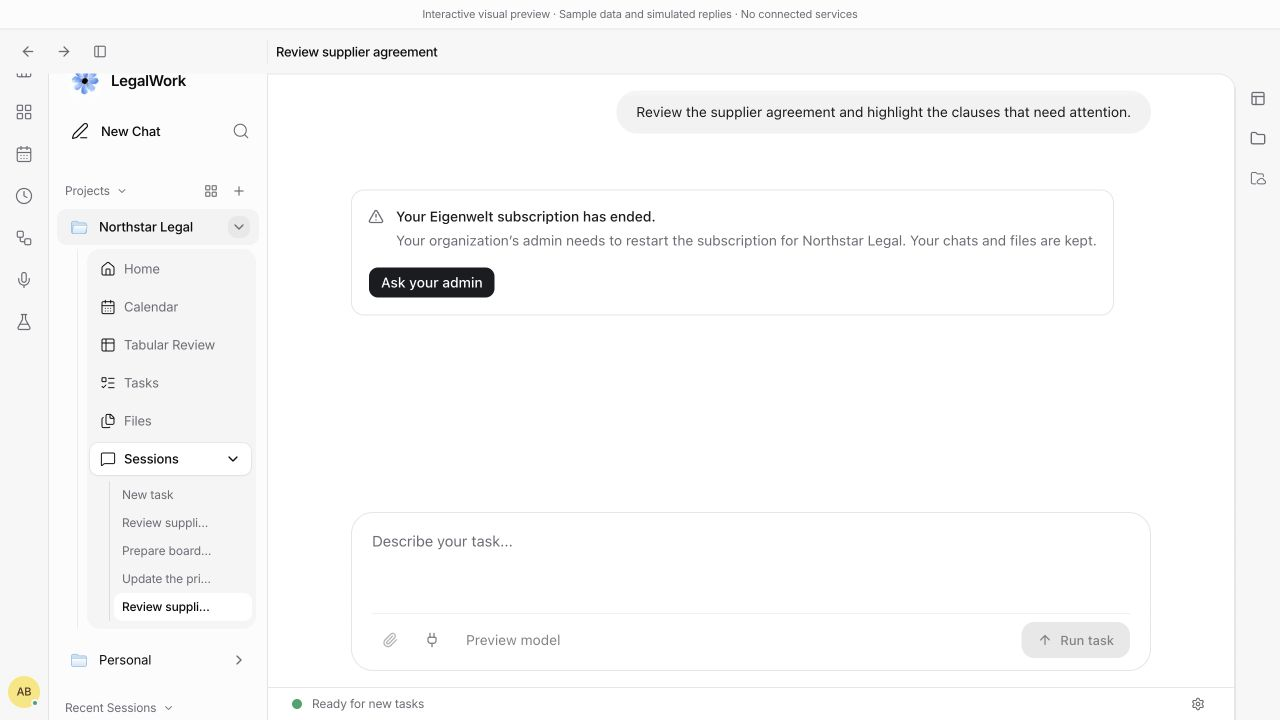
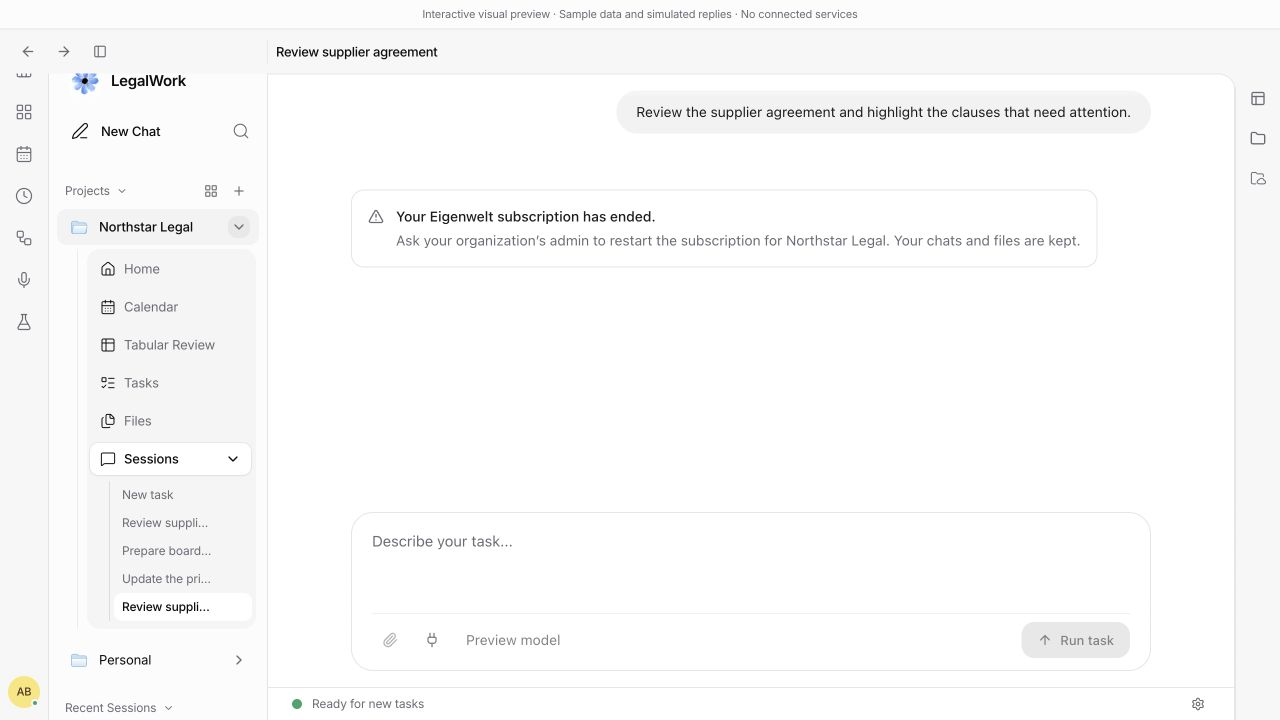
Show plain admin guidance for expired member subscriptions

Changed region(s): [[0.5, 0.3056, 0.8438, 0.3667], [0.2812, 0.3056, 0.4688, 0.4278]]

diff --git a/apps/app/src/react-app/domains/connections/usage-control/subscription-ended-message.tsx b/apps/app/src/react-app/domains/connections/usage-control/subscription-ended-message.tsx
@@ -33,10 +33,8 @@ export function SubscriptionEndedMessage({ client, workspaceId, onChoosePlan, re
   const member = Boolean(role) && !admin;
   const [open, setOpen] = useState(false);
   const [busy, setBusy] = useState(false);
-  const [copied, setCopied] = useState(false);
   const [error, setError] = useState("");
   const firm = account.data?.account?.orgName ?? t("ai_plans.your_firm");
-  const request = t("subscription_ended.request_text", { firm });
   return <div role="status" className="not-prose my-2 space-y-4 rounded-xl border border-border bg-card p-4 text-sm text-foreground">
     <div className="flex items-start gap-3">
       {restored ? <Check className="mt-0.5 size-4 shrink-0" /> : <AlertTriangle className="mt-0.5 size-4 shrink-0 text-muted-foreground" />}
@@ -45,24 +43,18 @@ export function SubscriptionEndedMessage({ client, workspaceId, onChoosePlan, re
         {!restored && <p className="text-muted-foreground">{t(admin ? "subscription_ended.admin_body" : "subscription_ended.member_body", { firm })}</p>}
       </div>
     </div>
-    {!restored && <Button size="sm" disabled={account.isPending || busy} onClick={() => {
+    {!restored && !member && <Button size="sm" disabled={account.isPending || busy} onClick={() => {
       setError("");
-      if (role) setOpen(true);
+      if (admin) setOpen(true);
       else void openDesktopUrl(eigenweltBillingUrl(account.data?.platformURL));
-    }}>{t(admin ? "subscription_ended.restart" : member ? "provider_limit.request" : "subscription_ended.view_plans")}</Button>}
-    <Dialog open={open} onOpenChange={value => { if (!busy) setOpen(value); }}>
+    }}>{t(admin ? "subscription_ended.restart" : "subscription_ended.view_plans")}</Button>}
+    <Dialog open={open && admin} onOpenChange={value => { if (!busy) setOpen(value); }}>
       <DialogContent className="max-h-[85vh] overflow-y-auto sm:max-w-xl">
         <DialogHeader>
-          <DialogTitle>{t(member ? "provider_limit.request" : "provider_limit.plans_title")}</DialogTitle>
-          <DialogDescription>{t(member ? "subscription_ended.member_help" : "subscription_ended.admin_body", { firm })}</DialogDescription>
+          <DialogTitle>{t("provider_limit.plans_title")}</DialogTitle>
+          <DialogDescription>{t("subscription_ended.admin_body", { firm })}</DialogDescription>
         </DialogHeader>
-        {member ? <div className="space-y-4">
-          <p className="rounded-xl border bg-muted/30 p-4 text-sm">{request}</p>
-          <Button onClick={() => {
-            void navigator.clipboard.writeText(request).then(() => { setCopied(true); setError(""); })
-              .catch(() => setError(t("subscription_ended.copy_error")));
-          }}>{copied ? <Check className="size-4" /> : null}{t(copied ? "subscription_ended.copied" : "subscription_ended.copy_request")}</Button>
-        </div> : <div className="space-y-3">
+        <div className="space-y-3">
           {EIGENWELT_PLANS.filter(item => item.id !== "sync").map(item => <div key={item.id} className="flex items-center justify-between gap-4 rounded-xl border p-4">
             <div>
               <p className="font-medium">{item.name}</p>
@@ -79,7 +71,7 @@ export function SubscriptionEndedMessage({ client, workspaceId, onChoosePlan, re
             }}>{busy ? <Loader2 className="size-4 animate-spin" /> : null}{t("ai_plans.restart", { plan: item.name })}</Button>
           </div>)}
           {busy && <p className="text-sm text-muted-foreground">{t("provider_limit.waiting")}</p>}
-        </div>}
+        </div>
         {error && <p role="alert" className="text-sm text-muted-foreground">{error}</p>}
       </DialogContent>
     </Dialog>

diff --git a/apps/app/src/i18n/locales/de.ts b/apps/app/src/i18n/locales/de.ts
@@ -4123,15 +4123,10 @@ const de = {
     "Nutzen Sie Ihre eigene KI kostenlos, wählen Sie Sync für Zusammenarbeit oder Plus oder Pro mit inkludierter KI-Nutzung.",
   "ai_plans.title_ended": "Ihr Eigenwelt-Abo ist beendet.",
   "subscription_ended.admin_body": "Starten Sie einen KI-Tarif für {firm} neu, um LegalWork-KI weiter zu nutzen. Ihre Chats und Dateien bleiben erhalten.",
-  "subscription_ended.member_body": "Der Admin Ihrer Organisation muss das Abonnement für {firm} neu starten. Ihre Chats und Dateien bleiben erhalten.",
+  "subscription_ended.member_body": "Bitten Sie den Admin Ihrer Organisation, das Abonnement für {firm} neu zu starten. Ihre Chats und Dateien bleiben erhalten.",
   "subscription_ended.restart": "Abonnement neu starten",
   "subscription_ended.restored": "LegalWork-KI ist wieder verfügbar",
   "subscription_ended.view_plans": "Tarife ansehen",
-  "subscription_ended.member_help": "Bitten Sie den Admin Ihrer Organisation, LegalWork zu öffnen und das Abonnement neu zu starten. Sie können die folgende Nachricht kopieren und ihm senden.",
-  "subscription_ended.request_text": "Das Eigenwelt-Abonnement für {firm} ist beendet, deshalb ist LegalWork-KI nicht verfügbar. Können Sie das Abonnement in LegalWork oder auf der Eigenwelt-Abrechnungsseite neu starten?",
-  "subscription_ended.copy_request": "Nachricht für Admin kopieren",
-  "subscription_ended.copied": "Nachricht kopiert",
-  "subscription_ended.copy_error": "Die Nachricht konnte nicht kopiert werden. Markieren Sie den Text oben und kopieren Sie ihn manuell.",
   "ai_plans.subtitle_ended":
     "LegalWork benötigt ein KI-Modell, um zu arbeiten. Starten Sie einen Tarif für {firm} neu, oder verbinden Sie einen Modellanbieter, den Sie bereits nutzen.",
   "ai_plans.title_no_models": "Ihr Tarif enthält keine KI-Modelle.",

diff --git a/apps/app/src/i18n/locales/en.ts b/apps/app/src/i18n/locales/en.ts
@@ -3837,15 +3837,10 @@ export default {
     "Use your own AI for free, add Sync for collaboration, or choose Plus or Pro with included AI usage.",
   "ai_plans.title_ended": "Your Eigenwelt subscription has ended.",
   "subscription_ended.admin_body": "Restart an AI plan for {firm} to continue using LegalWork AI. Your chats and files are kept.",
-  "subscription_ended.member_body": "Your organization’s admin needs to restart the subscription for {firm}. Your chats and files are kept.",
+  "subscription_ended.member_body": "Ask your organization’s admin to restart the subscription for {firm}. Your chats and files are kept.",
   "subscription_ended.restart": "Restart subscription",
   "subscription_ended.restored": "LegalWork AI is available again",
   "subscription_ended.view_plans": "View plans",
-  "subscription_ended.member_help": "Ask your organization’s admin to open LegalWork and restart the subscription. You can copy the message below and send it to them.",
-  "subscription_ended.request_text": "The Eigenwelt subscription for {firm} has ended, so LegalWork AI is unavailable. Could you restart the subscription in LegalWork or on the Eigenwelt billing page?",
-  "subscription_ended.copy_request": "Copy message for admin",
-  "subscription_ended.copied": "Message copied",
-  "subscription_ended.copy_error": "Could not copy the message. Select the text above and copy it manually.",
   "ai_plans.subtitle_ended":
     "LegalWork needs an AI model to work. Restart a plan for {firm}, or connect a model provider you already use.",
   "ai_plans.title_no_models": "Your plan does not include AI models.",

diff --git a/apps/app/tests/subscription-ended-message.test.tsx b/apps/app/tests/subscription-ended-message.test.tsx
@@ -37,10 +37,10 @@ describe("inline subscription renewal", () => {
     expect(html).not.toContain("text-destructive");
     expect(html).not.toContain("border-red");
   });
-  test("members get admin support rather than a checkout action", () => {
+  test("members get plain admin guidance without a button", () => {
     const html = render("org:member");
-    expect(html).toContain("Ask your admin");
-    expect(html).toContain("admin needs to restart");
+    expect(html).toContain("Ask your organization’s admin to restart");
+    expect(html).not.toContain("<button");
     expect(html).not.toContain("Restart subscription");
   });
   test("older platforms with no role keep a route to billing", () => {
